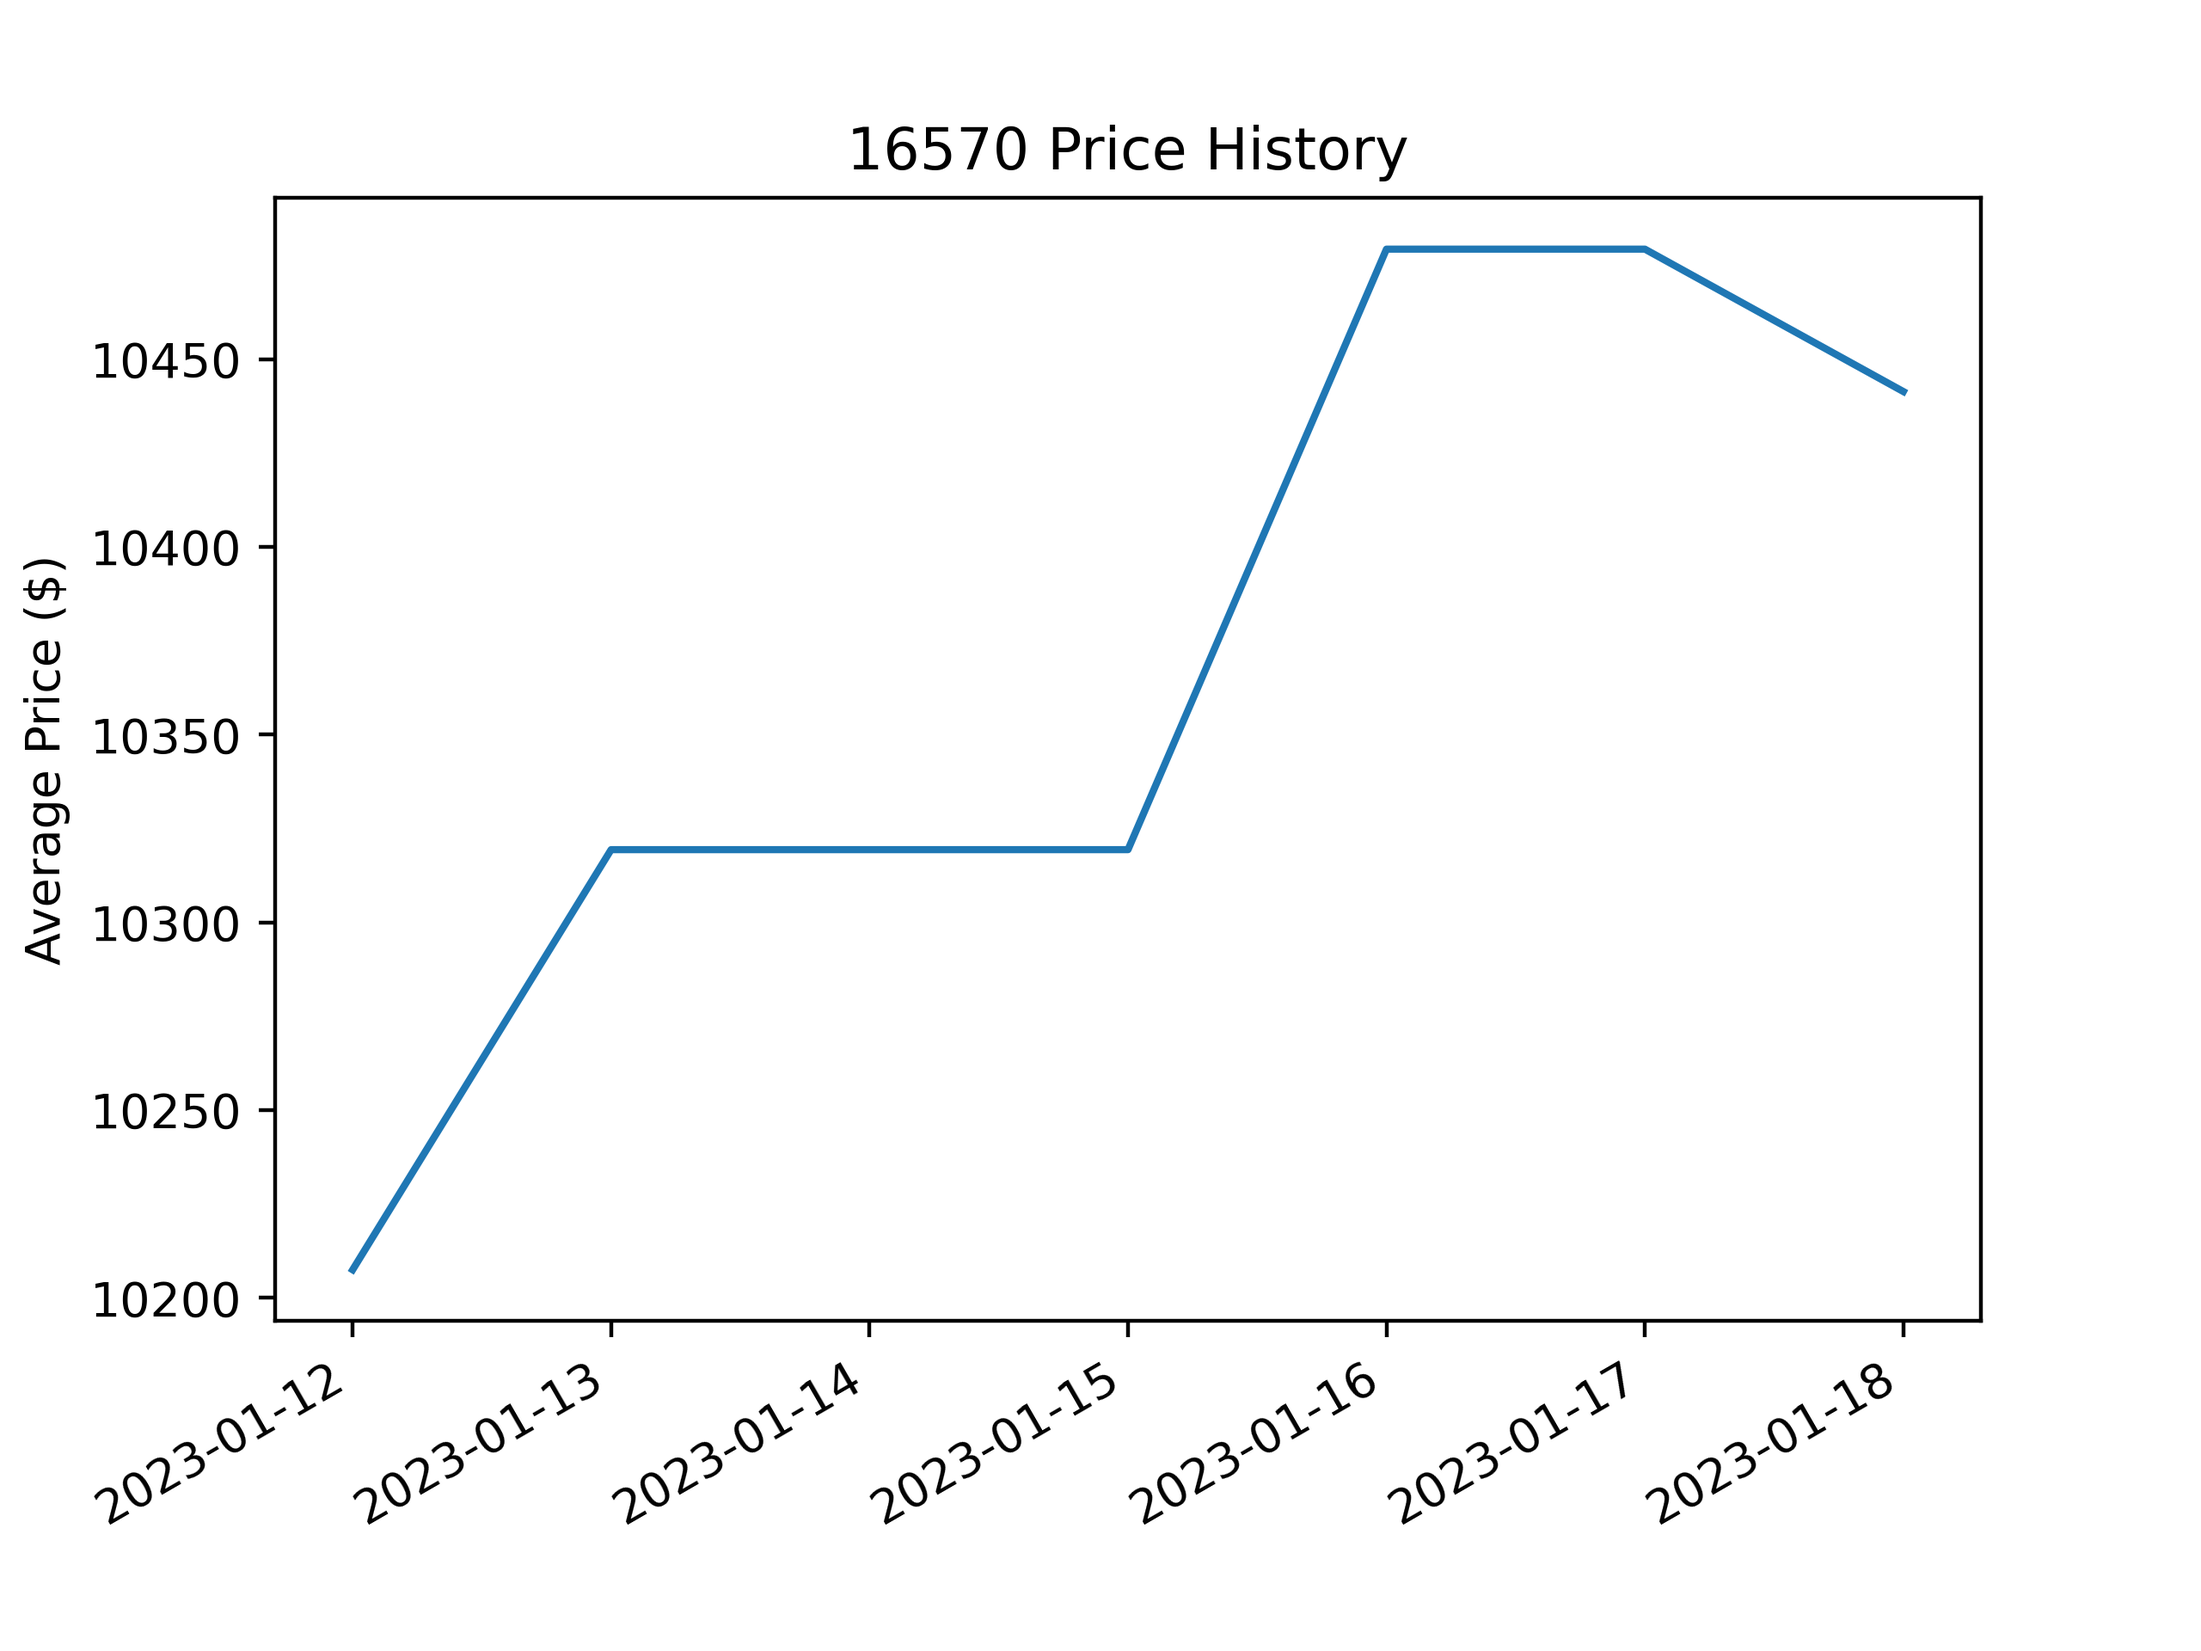
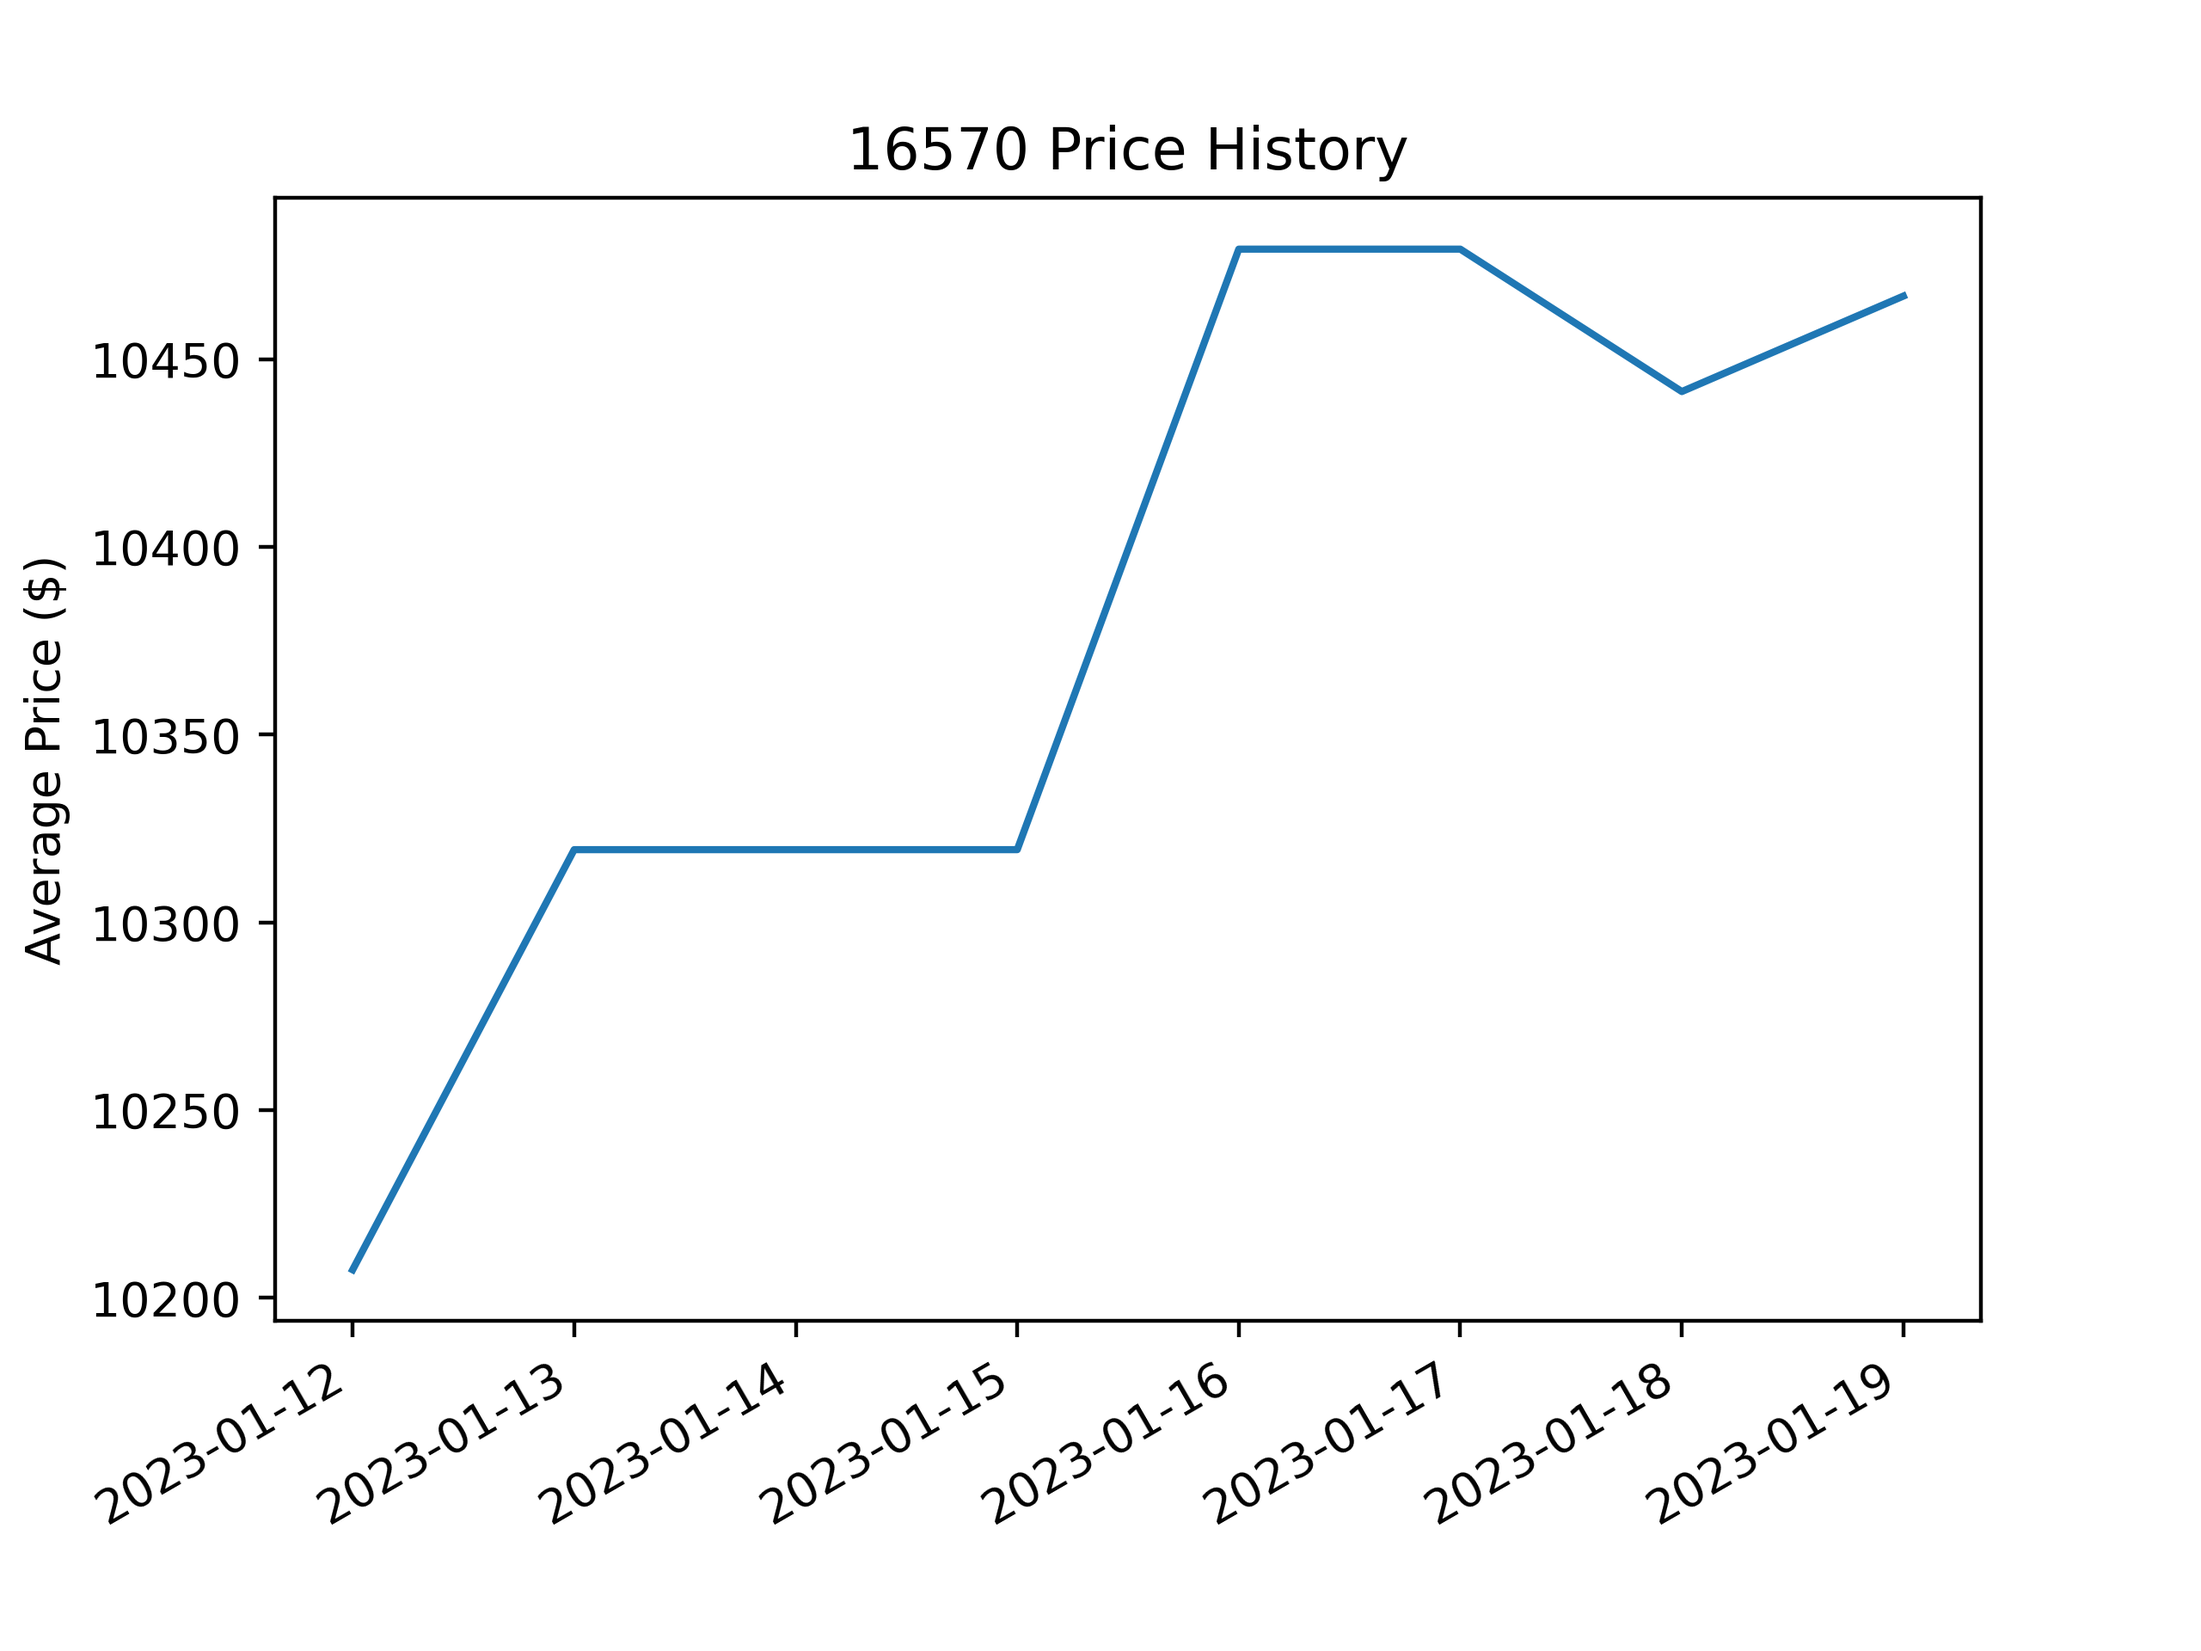
only bracelets from watchfinder

diff --git a/gray_sellers.py b/gray_sellers.py
@@ -6,7 +6,7 @@ class WatchFinder:
 
     def get_prices_links(self, browser):
 
-        url = "https://www.watchfinder.com/Rolex/Explorer%20II/16570/watches?filterDial=White"
+        url = "https://www.watchfinder.com/Rolex/Explorer%20II/16570/watches?filterDial=White&filterBracelet=Bracelet"
 
         browser.get(url)
 
